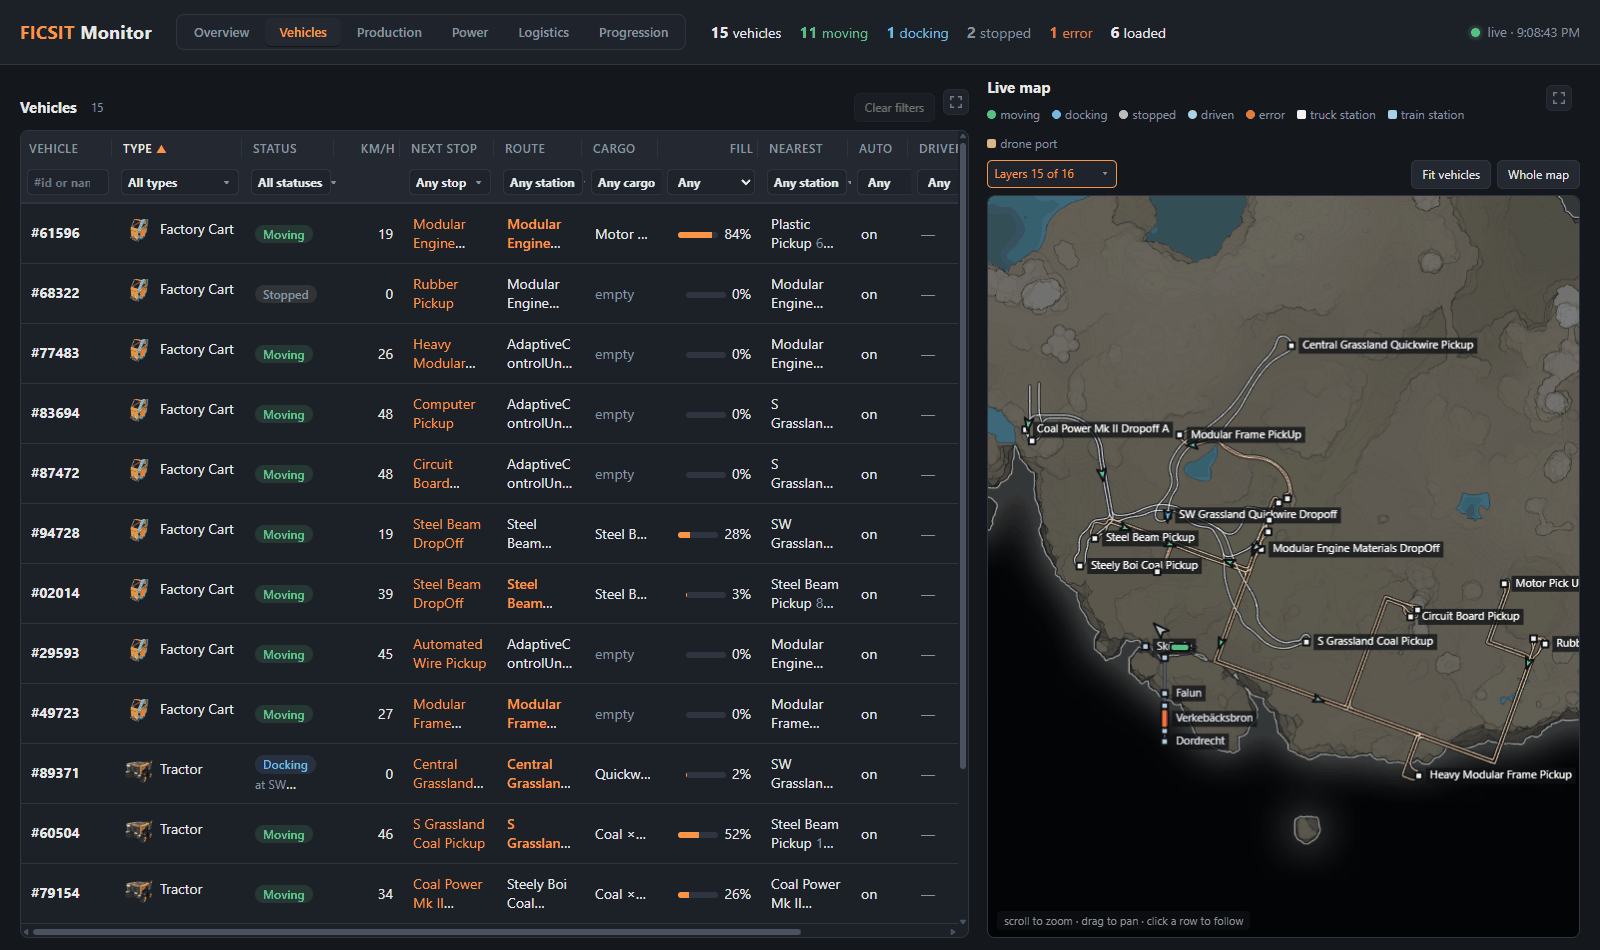
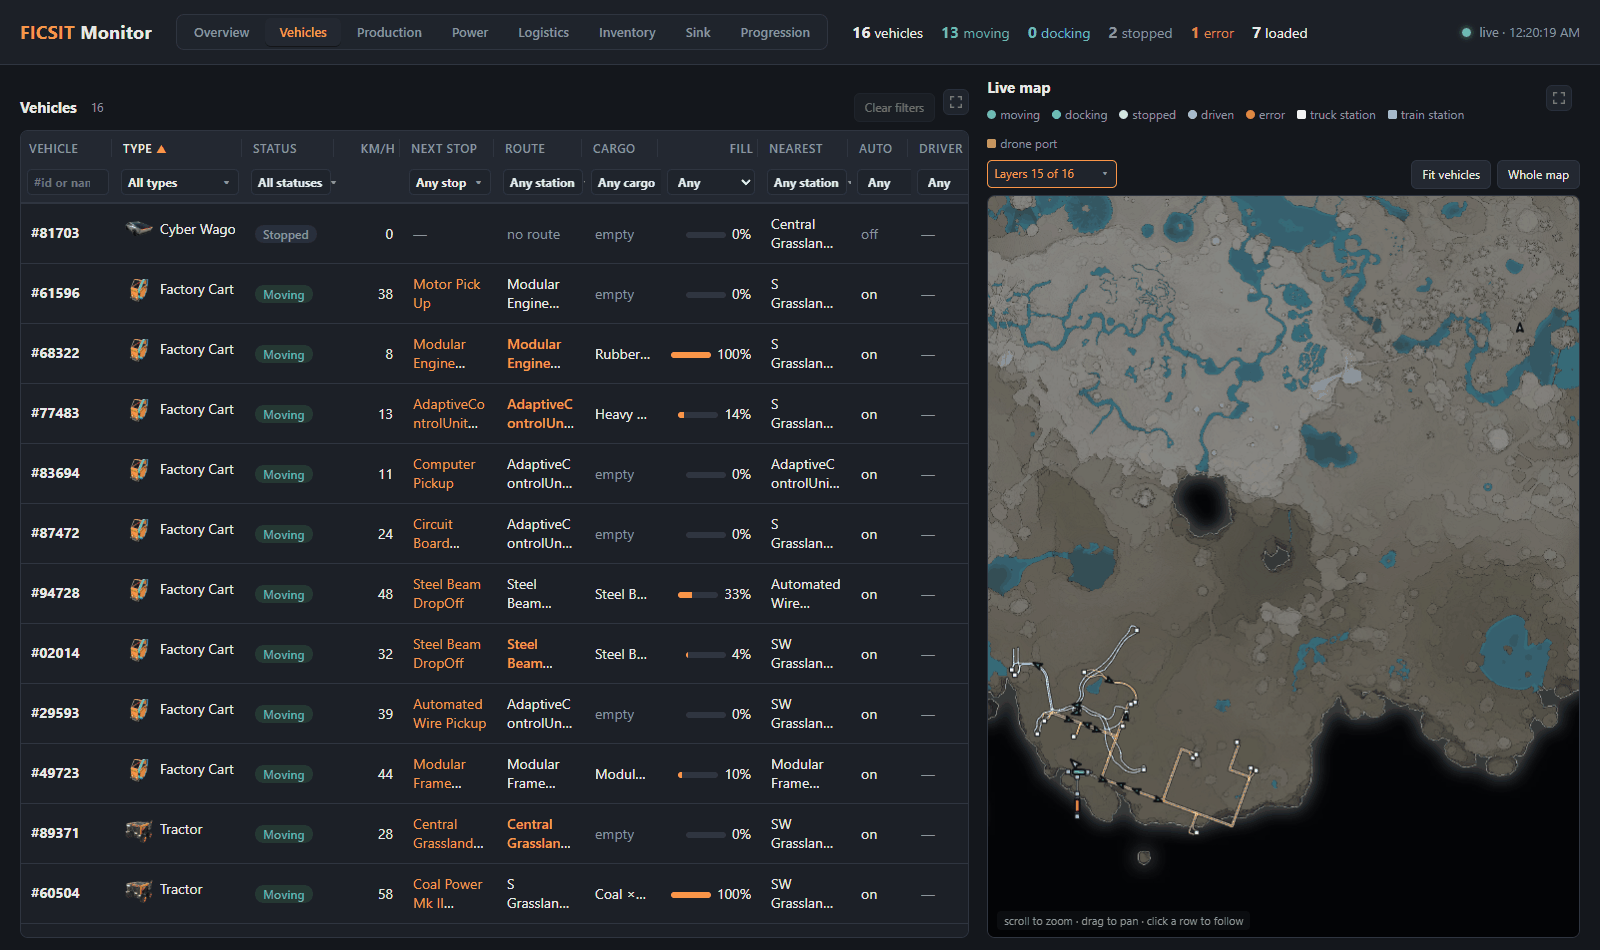
README: a screenshot for every tab, and the Sink tab described
Retakes all eight screenshots against the current UI (adds Inventory and Sink)
and documents the Sink tab, the Overview's sink card and sink history.

diff --git a/README.md b/README.md
@@ -1,15 +1,15 @@
 # Ficsit Remote Monitoring – FICSIT Monitor
 
-A live web dashboard for a Satisfactory world: how the factory is doing at a glance, every vehicle, every production machine, the power grid, every conveyor belt and pipe, and your progression. It reads data from the [Ficsit Remote Monitoring](https://github.com/porisius/FicsitRemoteMonitoring) (FRM) mod's web API.
+A live web dashboard for a Satisfactory world: how the factory is doing at a glance, every vehicle, every production machine, the power grid, every conveyor belt and pipe, what players and the Dimensional Depot hold, FICSIT Coupon income, and your progression. It reads data from the [Ficsit Remote Monitoring](https://github.com/porisius/FicsitRemoteMonitoring) (FRM) mod's web API.
 
 ![Overview](docs/screenshots/overview.png)
 
 ## Tabs
 
 ### Overview (home)
-- **Needs attention**: an overloaded grid or tripped fuse, max consumption over capacity, generators out of fuel or water, starved machines, items used faster than they're made, stuck vehicles (derailed, station unreachable, …), unconnected belt/pipe ends, milestones ready to unlock, coupons to spend. Each links to the tab that explains it.
-- **Summary cards**: power across the top (key figures and the four-line power chart), then production (status mix, top products, shortfalls), vehicles (per type, stuck ones by name), logistics (belt and pipe totals by tier) and progression (Space Elevator and HUB parts).
-- **World map** of machines, generators, vehicles, players, the HUB, the Space Elevator, every belt and pipe, the power network (lines, poles, wall outlets, towers, switches, power storage), every storage container, fluid buffer and Dimensional Depot uploader, roads, rail, drone routes and truck / train stations, with a categorized Layers dropdown.
+- **Needs attention**: an overloaded grid or tripped fuse, max consumption over capacity, generators out of fuel or water, starved machines, items used faster than they're made, stuck vehicles (derailed, station unreachable, …), unconnected belt/pipe ends, AWESOME Sinks without power, milestones ready to unlock, coupons to spend. Each links to the tab that explains it.
+- **Summary cards**: power across the top (key figures and the four-line power chart), then production (status mix, top products, shortfalls), progression (Space Elevator and HUB parts), vehicles (per type, stuck ones by name), logistics (belt and pipe totals by tier) and the AWESOME Sink (points per minute, time to the next coupon, the items earning the most).
+- **World map** of machines, generators, vehicles, players, the HUB, the Space Elevator, AWESOME Sinks, every belt and pipe, the power network (lines, poles, wall outlets, towers, switches, power storage), every storage container, fluid buffer and Dimensional Depot uploader, roads, rail, drone routes and truck / train stations, with a categorized Layers dropdown.
 
 ### Vehicles
 ![Vehicles](docs/screenshots/vehicles.png)
@@ -43,9 +43,18 @@ A live web dashboard for a Satisfactory world: how the factory is doing at a gla
 - `server.py` works the networks out by following what each belt, lift and pipe end is plugged into (FRM's `ConnectedTo0` / `ConnectedTo1`), through splitters/mergers, junctions/pumps/valves and floor holes. With an FRM build that doesn't report those, it falls back to geometry (ends that meet, each lift joined to the nearest belt end at its height). A network counts as production or power if it reaches a machine or a generator. It doesn't know what's on a belt or how full it is.
 
 ### Inventory
+![Inventory](docs/screenshots/inventory.png)
 - **Player inventory**: what every player is carrying, one row per player and item, with the amount, the stacks it takes, and how many of that item the Dimensional Depot holds. Players who are online come first.
 - **Dimensional Depot**: every item in the depot with its amount, limit, how full it is, stacks, and how many players are carrying right now. Click "At the limit" to list the items that can't take any more uploads.
 - The two are **linked**: click an item in either table and it is marked in both, pinned to the top of the other one. Every column has a filter under it.
+
+### Sink
+![Sink](docs/screenshots/sink.png)
+- FICSIT Coupon income: points per minute in the last minute and over 10 minutes (the in-game sink graph's numbers), time until the next coupon and how far along it is, coupons waiting to be printed, total points and DNA points.
+- **Points per minute** over 10 minutes to 24 hours, from `server.py`'s own record of the sink's running total.
+- **What's being sunk**: every item reaching an AWESOME Sink, how fast it's made, its points, points per minute and share, and the machines and recipes making it.
+- **Sinks**: each sink named after what feeds it most, the items it gets, belts into it, storage or stations it's fed from, belts that start at nothing, and power. Click one (in the table or on the map) to see only its items and ring the machines feeding it.
+- `server.py` follows the belts back from each sink (through splitters, mergers, lifts and floor holes) to the machines, storage and stations they start at; this needs FRM's `ConnectedTo0` / `ConnectedTo1` fields. Belts don't report their flow, so an item's points per minute is what its machines make: where a splitter on the way sends some of it elsewhere it's marked ≤, and the tab shows it beside what the sinks actually take in.
 
 ### Progression
 ![Progression](docs/screenshots/progression.png)
@@ -57,7 +66,7 @@ A live web dashboard for a Satisfactory world: how the factory is doing at a gla
 - Every table has its title and row count on the left, **Clear filters** on the right, and filters under the column headings.
 - Every panel has a **full-screen** button (Esc to close). Table columns can be resized (double-click an edge to fit) and sorted.
 - On a desktop browser each tab fits one screen; on phones the panels stack.
-- `server.py` records power (battery charge and capacity included) and production history (every 5 s / 15 s, 24 hours kept, saved to `history.json`), so charts have data from before the page was opened. It works out the belt and pipe networks every minute while a page shows them (every 5 minutes for a page in the background, not at all when nobody is looking).
+- `server.py` records power (battery charge and capacity included), production and sink points history (every 5 s / 15 s, 24 hours kept, saved to `history.json`), so charts have data from before the page was opened. It works out the belt and pipe networks every minute while a page shows them (every 5 minutes for a page in the background, not at all when nobody is looking).
 
 ## Requirements
 - Satisfactory 1.2 with the **Ficsit Remote Monitoring** mod, with its web server started (`/frm http start` in game chat, or its autostart setting turned on).
@@ -78,7 +87,7 @@ Options:
 - `--frm http://<host>:8080`, or set `FRM_URL`, if FRM runs on another machine.
 - `--host 0.0.0.0` to open the dashboard from other devices on your network.
 - `--port` to use a port other than 8090.
-- `--no-history` to not record power/production history.
+- `--no-history` to not record power, production and sink history.
 
 `items.json` (every item in the game, with fuel energy values) is included. To regenerate it after a game update, run `python tools/generate_items.py --game-dir "<Satisfactory install>"`.
 
